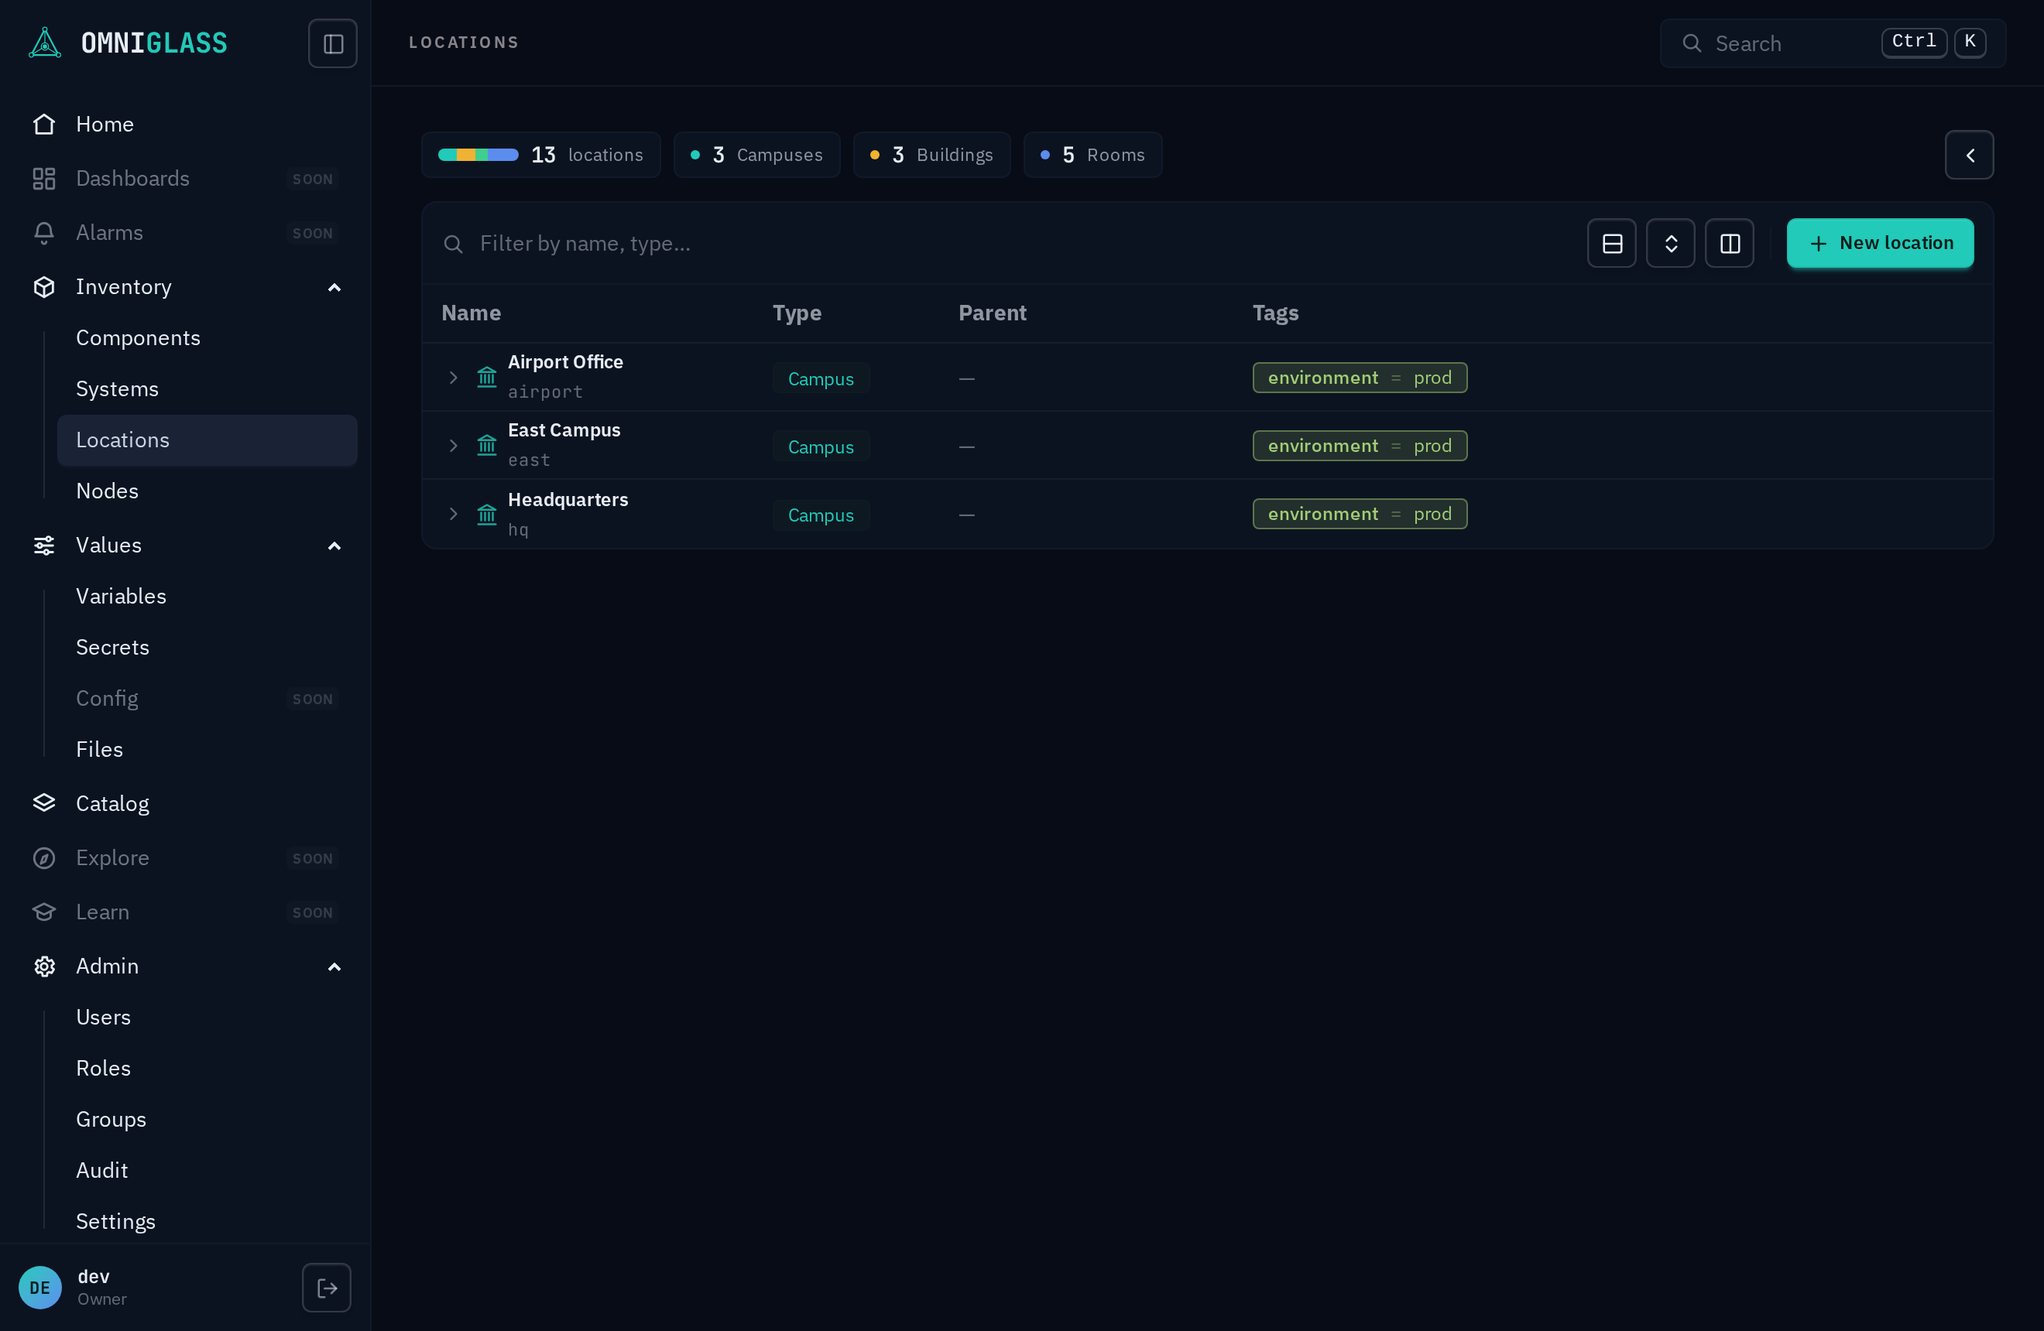
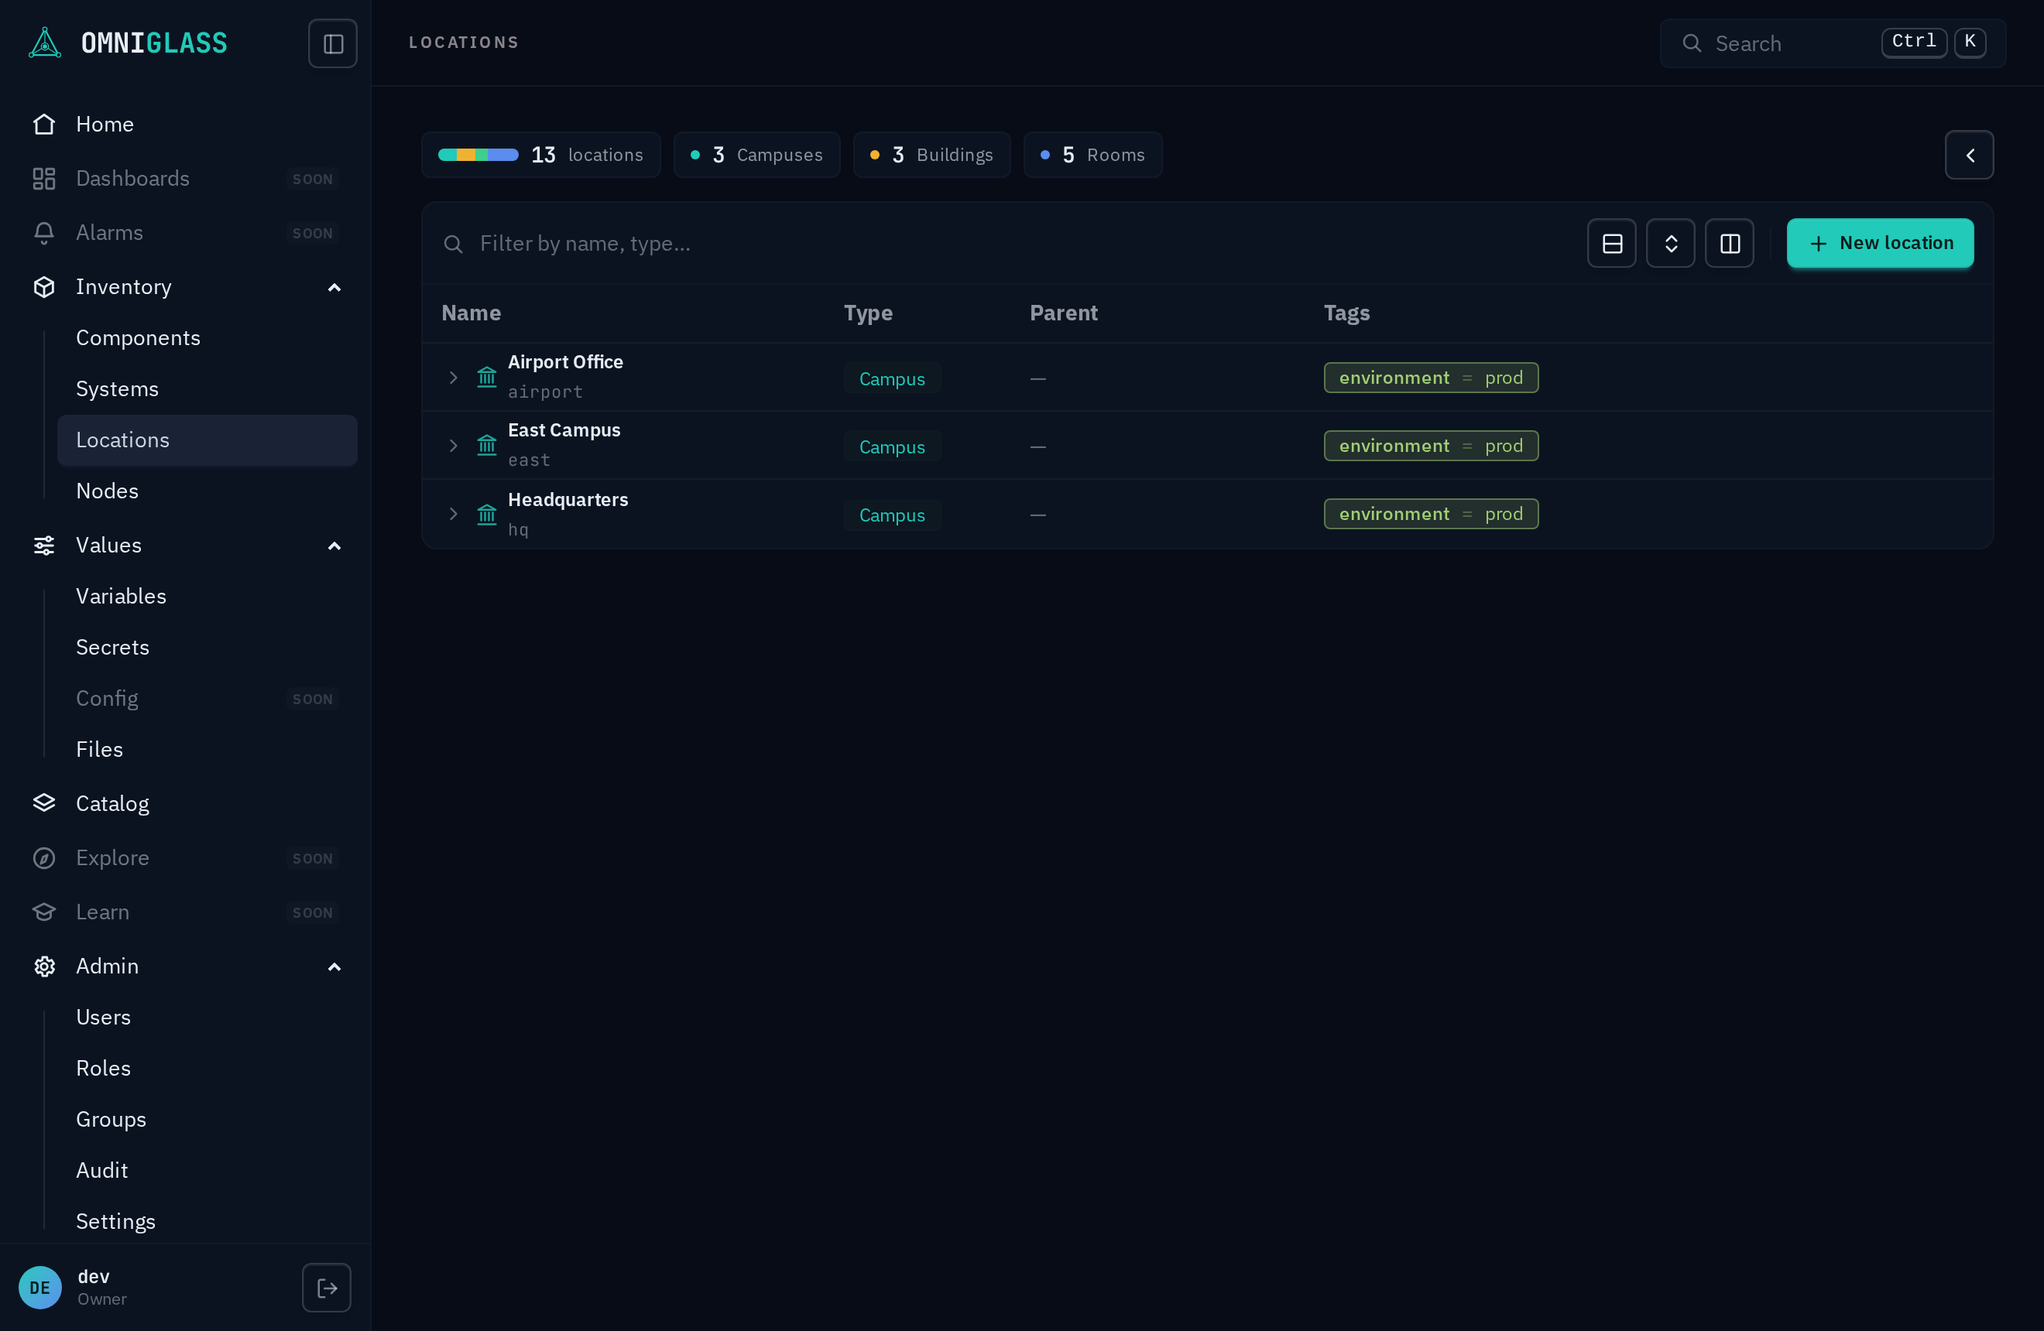
fix: the Name column keeps a floor on a narrow screen (#690)
A list table is table-layout: fixed and every column but Name declares a
width, so Name takes what is left. That lets the identifier grow into a wide
screen and made it the first column to give space up on a narrow one, to the
point of vanishing: measured at a 1280 viewport, where the list card offers
973px, the Components table's Name column was 0px wide while Tags kept all
340 of its pixels, and Systems was 0px too. Locations, declaring 650px of
columns, had 173px left and looked fine, which is why one page was reported
and three were affected.

The floor is one rule in the shared shell rather than numbers tuned per
page: the table asks for a min-width of everything declared plus a Name
minimum, so the browser gives Name that much and the card scrolls sideways
when even that does not fit. Wide screens are untouched.

Held by a page test on each of the three pages and by a browser test that
measures the rendered column at 1280 and 1366, which is the only tier that
can see a layout defect at all.

diff --git a/web/src/components/TreeList.tsx b/web/src/components/TreeList.tsx
@@ -195,6 +195,51 @@ export type PageDescriptor = {
   defaultCols: string[];
 };
 
+// NAME_MIN_W is the floor under the Name column, and ACTION_W the row-action
+// column every list ends with.
+//
+// The Name column declares no width of its own, which is what lets it grow into
+// a wide screen: under `table-fixed` a widthless column takes whatever the
+// declared ones leave. That also makes it the FIRST to give up space on a narrow
+// one, and it gave up all of it (#690). Measured in the console at a 1280
+// viewport, where the list card offers 973px: Components declares 890px of
+// columns plus 150px of actions, so Name measured **0px** and the identifier an
+// operator scans was gone while Tags kept all 340 of its pixels; Systems
+// declares 960 and measured the same 0; Locations declares 650, so it had 173px
+// left over and looked fine. Same markup, three outcomes, decided by the widths
+// each page happens to declare.
+// 260px is MEASURED rather than chosen: an identity cell laid out with no clamp
+// wants 200px for "Boardroom 2" beside its Generated chip, and a real estate's
+// labels are longer than eleven characters, so a floor at 200 truncated the
+// system label to "Boardroo..." on the very page whose siblings #693 had just
+// taught to read differently. 260 carries a label of about nineteen characters
+// with its chip.
+//
+// It is a FLOOR and not a width: on a wide screen Name still takes everything
+// the declared columns leave (454px on Locations at a 1680 viewport). The cost
+// is stated rather than hidden: on Components and Systems, whose declared
+// columns already exceed the list card at that viewport, the card now scrolls
+// sideways where it used to fit by squeezing Name to 214px and 144px. Hiding one
+// column (Tags is the widest and the least identifying) removes the scroll, and
+// that lever is already in the columns menu.
+export const NAME_MIN_W = 260;
+export const ACTION_W = 150;
+
+// minTableWidth is the fix, and it is a floor on the TABLE rather than a width
+// on the column. The table asks for at least the declared columns plus
+// NAME_MIN_W, so the browser gives Name that much and the card (already
+// `overflow-x-auto`) scrolls sideways when even that does not fit, instead of
+// squeezing the identifier out of existence. Wide screens are untouched:
+// `width: 100%` beats a smaller min-width, so Name still absorbs the surplus.
+//
+// It lives here rather than in each page's descriptor because the three pages
+// differ only in the widths they declare, and the defect was that one shared
+// rule produced three different behaviours. The remedy has to be the same shared
+// rule, not three sets of numbers kept in step by hand.
+export function minTableWidth(columns: Record<string, { width: number }>, visible: string[]): number {
+  return visible.reduce((sum, k) => sum + (columns[k]?.width ?? 0), NAME_MIN_W + ACTION_W);
+}
+
 export default function TreeList<N extends ListNode>(props: { config: ListConfig<N> }) {
   const cfg = props.config;
   const me = useMe();
@@ -687,11 +732,11 @@ export default function TreeList<N extends ListNode>(props: { config: ListConfig
       >
         {() => (
           <div class="overflow-x-auto">
-            <table class="og-rows table table-fixed table-sm">
+            <table class="og-rows table table-fixed table-sm" style={{ "min-width": `${minTableWidth(cfg.columns, visible())}px` }}>
             <colgroup>
               <col />
               <For each={visible()}>{(k) => <col style={{ width: `${cfg.columns[k].width}px` }} />}</For>
-              <col style={{ width: "150px" }} />
+              <col style={{ width: `${ACTION_W}px` }} />
             </colgroup>
             <thead>
               <tr>

diff --git a/web/src/pages/Components.test.tsx b/web/src/pages/Components.test.tsx
@@ -14,6 +14,7 @@ import { uuidFor } from "../lib/testids";
 import { hueFor } from "../lib/system_color";
 import { INTERFACES_KEY, type Interface } from "../lib/interfaces";
 import { REACHABILITY_KEY } from "../lib/reachability";
+import { NAME_MIN_W } from "../components/TreeList";
 
 // The Components page on the shared TreeList in the create-as-route model: New routes
 // to /components/create (a draft accordion), Save hands off to /components/<name> in
@@ -1222,5 +1223,31 @@ describe("Components create offers a system only to a principal who may bind one
     expect(sent).not.toHaveProperty("system");
     expect(drafted.length).toBeGreaterThan(0);
     for (const body of drafted) expect(body).not.toHaveProperty("system");
+  });
+});
+
+// #690: the Name column measured 0px at a 1280 viewport, because under
+// `table-fixed` a widthless column takes what the declared ones leave, and
+// Components declares more than a 1280 screen has to give. The identifier an
+// operator scans was the first thing to vanish, and Tags kept every pixel.
+//
+// The assertion is on the DOM rather than on the descriptor, and it is both
+// halves of the fix at once: Name still declares NO width (so it absorbs a wide
+// screen, which is the behaviour worth keeping), and the table asks for a floor
+// under it, so a narrow screen scrolls the card sideways instead of squeezing
+// the column out. The same test rides on Systems and Locations, which is where
+// "all three behave the same way" is actually asserted: today they do not.
+describe("Components list keeps a floor under the Name column (#690)", () => {
+  it("declares no width on Name and a table floor that leaves it NAME_MIN_W", async () => {
+    localStorage.clear();
+    mount("/components");
+    await waitFor(() => expect(document.querySelector("table.og-rows")).toBeTruthy());
+
+    const table = document.querySelector("table.og-rows") as HTMLTableElement;
+    const cols = [...table.querySelectorAll("colgroup col")] as HTMLTableColElement[];
+    const declared = cols.slice(1).reduce((sum, c) => sum + parseInt(c.style.width || "0", 10), 0);
+
+    expect(cols[0].style.width).toBe("");
+    expect(parseInt(table.style.minWidth, 10) - declared).toBe(NAME_MIN_W);
   });
 });

diff --git a/web/src/pages/Locations.test.tsx b/web/src/pages/Locations.test.tsx
@@ -9,6 +9,7 @@ import { ownerPropertiesKey, type EffectiveProperty } from "../lib/owner_propert
 import { ME_KEY, type Me } from "../lib/auth";
 import { TAGS_KEY, entityTagsKey } from "../lib/tags";
 import { uuidFor } from "../lib/testids";
+import { NAME_MIN_W } from "../components/TreeList";
 
 // The Locations page on the shared TreeList in the create-as-route model: New routes
 // to /locations/create (a draft accordion), Save hands off to /locations/<name> in
@@ -820,5 +821,26 @@ describe("Locations create identity", () => {
     // ordinal, so posting one would be a claim nothing can check (a 422).
     expect("expected_name" in captured!).toBe(false);
     expect(captured!.display_name).toBe("War Room");
+  });
+});
+
+// The Locations half of #690's uniformity clause, and the page the issue was
+// filed against as the control: it declares 650px of default columns, so at 1280
+// its Name column measured 173px and looked fine while the other two measured 0.
+// It gets the same floor rather than being left alone, because "Locations,
+// Systems and Components behave the same way" is the acceptance, and a page that
+// happens to fit today is a page that stops fitting when a column is added.
+describe("Locations list keeps a floor under the Name column (#690)", () => {
+  it("declares no width on Name and a table floor that leaves it NAME_MIN_W", async () => {
+    localStorage.clear();
+    mount("/locations");
+    await waitFor(() => expect(document.querySelector("table.og-rows")).toBeTruthy());
+
+    const table = document.querySelector("table.og-rows") as HTMLTableElement;
+    const cols = [...table.querySelectorAll("colgroup col")] as HTMLTableColElement[];
+    const declared = cols.slice(1).reduce((sum, c) => sum + parseInt(c.style.width || "0", 10), 0);
+
+    expect(cols[0].style.width).toBe("");
+    expect(parseInt(table.style.minWidth, 10) - declared).toBe(NAME_MIN_W);
   });
 });

diff --git a/web/e2e/console.spec.ts b/web/e2e/console.spec.ts
@@ -139,4 +139,32 @@ test.describe("operator console", () => {
     await page.locator('button:text-is("Delete")').click();
     await page.waitForURL(/\/web\/components\/?$/);
   });
+
+  // #690, and the only tier that can witness it: the defect is a LAYOUT, so it
+  // needs a browser doing layout. A page test can assert what the table declares
+  // and jsdom will not measure a column, which is exactly how a Name column
+  // measuring zero pixels sat on main behind a green suite.
+  //
+  // The numbers this replaced were measured on the dev estate at a 1280 viewport,
+  // where the list card offers 973px: Components' Name column was 0px wide (890px
+  // of declared columns plus 150px of actions, with nothing left), Systems' was
+  // 0px (960 declared), and Locations' was 173px (650 declared), which is why one
+  // of the three looked fine and the acceptance names all three.
+  for (const width of [1280, 1366]) {
+    test(`the Name column survives a ${width}px viewport on every inventory page`, async ({ page }) => {
+      await page.setViewportSize({ width, height: 800 });
+      for (const path of ["/web/components", "/web/systems", "/web/locations"]) {
+        await page.goto(path);
+        const name = page.locator("main table.og-rows thead th").first();
+        await expect(name).toHaveText("Name");
+        const box = await name.boundingBox();
+        // 150 rather than the 200px floor itself: the assertion is that the
+        // identifier column is READABLE, not that it equals a constant a later
+        // slice may tune. Zero, which is what two of these three measured before
+        // the floor existed, fails it by a mile.
+        expect(box, `${path} at ${width}px has no Name column at all`).not.toBeNull();
+        expect(box!.width, `${path} at ${width}px: Name is ${Math.round(box!.width)}px`).toBeGreaterThan(150);
+      }
+    });
+  }
 });

diff --git a/web/src/pages/Systems.test.tsx b/web/src/pages/Systems.test.tsx
@@ -14,6 +14,7 @@ import { TAGS_KEY, entityTagsKey } from "../lib/tags";
 import { uuidFor } from "../lib/testids";
 import { hueFor } from "../lib/system_color";
 import { systemHealthKey, type EstateHealth } from "../lib/health";
+import { NAME_MIN_W } from "../components/TreeList";
 
 // The Systems page on the shared TreeList in the create-as-route model: New routes
 // to /systems/create (a draft accordion), Save hands off to /systems/<id> in edit;
@@ -595,5 +596,25 @@ describe("Systems create identity", () => {
     // The NAME the locked field was showing goes back as the precondition.
     expect(captured!.expected_name).toBe("classroom");
     expect(captured!.display_name).toBe("Lecture Hall");
+  });
+});
+
+// The Systems half of #690's uniformity clause. Systems declares the widest
+// default set of the three (960px of columns), so it lost the Name column at a
+// wider viewport than Components did: measured 0px at 1280, where the list card
+// offers 973px. Same assertion as Components and Locations, because the whole
+// point of the fix is that one shared rule now produces one behaviour.
+describe("Systems list keeps a floor under the Name column (#690)", () => {
+  it("declares no width on Name and a table floor that leaves it NAME_MIN_W", async () => {
+    localStorage.clear();
+    mount("/systems");
+    await waitFor(() => expect(document.querySelector("table.og-rows")).toBeTruthy());
+
+    const table = document.querySelector("table.og-rows") as HTMLTableElement;
+    const cols = [...table.querySelectorAll("colgroup col")] as HTMLTableColElement[];
+    const declared = cols.slice(1).reduce((sum, c) => sum + parseInt(c.style.width || "0", 10), 0);
+
+    expect(cols[0].style.width).toBe("");
+    expect(parseInt(table.style.minWidth, 10) - declared).toBe(NAME_MIN_W);
   });
 });

diff --git a/docs/src/content/docs/architecture/build-log.md b/docs/src/content/docs/architecture/build-log.md
@@ -4153,3 +4153,21 @@ capabilities ship, so an early slice can prove a seam without moving any page of
   `/systems:recomputeLabels`, which the seed, the architecture page and the operator-facing rule text
   each say where they are met
   ([ADR-0101](/architecture/decisions/#adr-0101-the-first-of-its-stem-in-a-bucket-carries-no-ordinal-and-the-mint-that-says-so-is-the-one-allocation-tests) amended).
+
+- **The Name column stops being the first thing a narrow screen drops.** A list table is
+  `table-layout: fixed` and every column but Name declares a width, so Name takes what is left. That
+  is what lets the identifier grow into a wide screen, and it also made Name the first column to give
+  space up on a narrow one, to the point of vanishing: measured against the dev estate at a 1280
+  viewport, where the list card offers 973px, the Components table's Name column was **0px** wide
+  while Tags kept all 340 of its pixels, and Systems was the same at 0px against 960px of declared
+  columns. Locations, declaring 650px, had 173px left over and looked fine, which is the whole of why
+  one page was reported and three were affected: identical markup, three outcomes, decided by the
+  widths each page happens to declare. The remedy is one floor in the shared shell rather than
+  numbers tuned per page: the table asks for a `min-width` of everything declared plus a Name
+  minimum, so the browser gives Name that much and the card (already `overflow-x-auto`) scrolls
+  sideways when even that does not fit. Wide screens are untouched, since `width: 100%` beats a
+  smaller min-width and Name still absorbs the surplus. Held by a page test on each of the three
+  pages (Name declares no width, and the table's floor leaves it the minimum) and by a browser test
+  that MEASURES the rendered column at 1280 and 1366, which is the tier the defect lives in: a
+  column measuring zero pixels sat on main behind a green suite because nothing below a real browser
+  does layout.

diff --git a/docs/src/content/docs/contributing/design-system.md b/docs/src/content/docs/contributing/design-system.md
@@ -46,6 +46,16 @@ CLI is generated the same way. `make gen` regenerates all of it; a non-empty dif
   the primary create), the tree and flattened body rendering, the stacked detail blades, the full-page
   detail, the create/edit `Drawer`, and an optional summary widget board. Adding an entity of
   this class is a data layer + a config + a route (see the `add-inventory-view` skill).
+- **The Name column has a floor, and the card scrolls before it gives it up.** A list table is
+  `table-layout: fixed`, every column but Name declares a width, and Name takes what is left, which
+  is what lets the identifier grow into a wide screen. It also made Name the first column to give up
+  space on a narrow one, and it gave up all of it: at a 1280 viewport, where the list card offers
+  973px, Components declared 890px of columns plus 150px of row actions and its Name column measured
+  **0px**, while Locations, declaring 650px, looked fine ([#690](https://github.com/hyperscaleav/omniglass/issues/690)).
+  `TreeList` now asks the table for a `min-width` of everything declared plus `NAME_MIN_W`, so the
+  browser gives Name that floor and the card scrolls sideways when even that does not fit. Wide
+  screens are unchanged, since `width: 100%` beats a smaller min-width. A page declaring a new
+  column inherits this; it is one rule in the shell, not a set of numbers per page.
 - **The faceted filter is a tested engine.** `lib/predicate` is the pure matcher: values within a
   chip are OR, chips across keys are AND, clicking an active facet removes it. `FilterBar` is the
   thin staged combobox over it; the genuinely tricky list derivations (index, ancestor paths,

diff --git a/docs/src/content/docs/guides/operator/inventory.md b/docs/src/content/docs/guides/operator/inventory.md
@@ -44,7 +44,10 @@ sections ([getting around](/guides/operator/#getting-around)).
   the first line, and beneath it, in the data face, the **name** the API, the CLI, and the URL address
   it by. An entity with no display name shows its name alone, in the data face, so an absence reads as
   an absence rather than a typo. That second line is what you copy into an `omniglass` command. The
-  column is headed **Name** on every page and sorts on the line you are reading down.
+  column is headed **Name** on every page and sorts on the line you are reading down. It keeps a
+  minimum width on a narrow screen: on a 1366x768 laptop the list scrolls sideways rather than
+  squeezing the identifier out, and hiding a column you are not using (the **Tags** column is the
+  widest) is what removes the sideways scroll.
 - A display name the platform rendered from a [label rule](/architecture/core-entities/) wears a
   **Generated** chip beside it, which is how you tell the rows a rule edit would rewrite from the ones
   you named yourself. Typing over one claims it; clearing the field hands it back.
